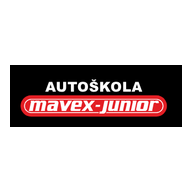
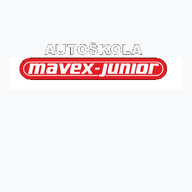
MAVEX – JUNIOR 3D dizajn

diff --git a/index.html b/index.html
@@ -3,46 +3,92 @@
 <head>
 <meta charset="utf-8">
 <meta name="viewport" content="width=device-width,initial-scale=1,viewport-fit=cover">
-<meta name="theme-color" content="#214f7d">
+<meta name="theme-color" content="#b8000c">
 <meta name="mobile-web-app-capable" content="yes">
 <meta name="apple-mobile-web-app-capable" content="yes">
-<meta name="apple-mobile-web-app-title" content="MAVEX JUNIOR">
+<meta name="apple-mobile-web-app-title" content="MAVEX – JUNIOR">
 <link rel="manifest" href="manifest.json">
 <link rel="icon" href="icon-192.png" type="image/png">
 <title>MAVEX – JUNIOR</title>
 <style>
+:root{--red:#e5232b;--red2:#b9000a;--dark:#11151b;--blue:#214f7d;--ink:#14171b}
 *{box-sizing:border-box}
-html,body{margin:0;min-height:100%;font-family:Arial,sans-serif;background:#f5f7fa;color:#111}
-main{min-height:100vh;display:flex;align-items:center;justify-content:center;padding:24px}
-.card{width:min(760px,100%);background:#fff;border-radius:24px;padding:42px 38px 34px;box-shadow:0 8px 30px rgba(0,0,0,.12);text-align:center}
-.logo{width:min(620px,92%);height:auto;display:block;margin:0 auto 38px}
-h1{margin:0 0 12px;color:#214f7d;font-size:clamp(25px,5vw,40px);font-weight:800}
-p{margin:0;color:#222;font-size:clamp(16px,3vw,22px);line-height:1.45}
-.btn{display:flex;align-items:center;justify-content:center;gap:14px;width:min(430px,100%);margin:30px auto 0;padding:18px 24px;border-radius:15px;background:#103b78;color:#fff;text-decoration:none;font-size:clamp(18px,3vw,24px);font-weight:800;box-shadow:0 5px 14px rgba(16,59,120,.22)}
-.cal{font-size:1.25em;line-height:1}
-.small{margin-top:24px;color:#666;font-size:14px}
-@media(max-width:500px){
-main{padding:12px}
-.card{padding:28px 18px 24px;border-radius:18px}
-.logo{margin-bottom:28px}
-.btn{padding:16px 18px}
+html,body{margin:0;min-height:100%;font-family:Arial,Helvetica,sans-serif;background:#eef1f5;color:var(--ink)}
+body{overflow-x:hidden}
+.page{min-height:100vh;display:flex;align-items:center;justify-content:center;padding:20px}
+.shell{position:relative;width:min(1120px,100%);min-height:720px;overflow:hidden;border-radius:32px;background:linear-gradient(145deg,#fff 0%,#fff 58%,#f0f3f6 100%);box-shadow:0 30px 70px rgba(0,0,0,.18),inset 0 1px 0 #fff}
+.shell:before{content:"";position:absolute;width:560px;height:560px;left:-260px;top:-280px;border-radius:50%;background:radial-gradient(circle at 70% 70%,#ff3540 0 3%,transparent 4%),linear-gradient(135deg,#15191e 0 38%,#e5232b 39% 44%,transparent 45%);transform:rotate(-10deg);opacity:.98}
+.shell:after{content:"";position:absolute;width:600px;height:600px;right:-310px;bottom:-330px;border-radius:50%;background:linear-gradient(315deg,#15191e 0 37%,#e5232b 38% 43%,transparent 44%);transform:rotate(-8deg)}
+.content{position:relative;z-index:2;display:grid;grid-template-columns:1.15fr .85fr;gap:30px;min-height:720px;padding:58px 64px}
+.left{display:flex;flex-direction:column;justify-content:center}
+.kicker{font-size:14px;letter-spacing:3px;font-weight:800;color:#666;text-transform:uppercase;margin-bottom:16px}
+.logo3d{display:inline-flex;align-self:flex-start;align-items:center;justify-content:center;padding:12px 22px;border-radius:28px;background:linear-gradient(180deg,#ff3b42,#c9000a);border:2px solid #ff5b60;box-shadow:0 12px 0 #7f0007,0 20px 28px rgba(185,0,10,.25),inset 0 2px 3px rgba(255,255,255,.7);transform:perspective(600px) rotateX(5deg);margin-bottom:30px}
+.logoText{font-style:italic;font-weight:900;font-size:clamp(30px,5vw,58px);letter-spacing:-3px;color:#fff;text-shadow:0 3px 0 #8e0006,0 5px 7px rgba(0,0,0,.2)}
+.auto{font-size:clamp(22px,4vw,42px);font-weight:900;letter-spacing:2px;color:#0c0e11;margin-bottom:4px;text-shadow:0 3px 0 #ddd}
+h1{margin:0;font-size:clamp(48px,8vw,92px);line-height:.92;letter-spacing:-4px;font-weight:950;color:#111}
+h1 span{color:var(--red);text-shadow:0 5px 0 #8d0007,0 10px 18px rgba(185,0,10,.18)}
+.lead{margin:22px 0 0;max-width:620px;font-size:clamp(18px,2.2vw,25px);line-height:1.4;color:#4a4e54}
+.cta{display:inline-flex;align-items:center;justify-content:center;gap:15px;width:min(430px,100%);margin-top:32px;padding:20px 26px;border:0;border-radius:18px;background:linear-gradient(180deg,#ff3b42,#c9000a);color:#fff;text-decoration:none;font-size:clamp(19px,2.4vw,26px);font-weight:900;box-shadow:0 9px 0 #850008,0 18px 30px rgba(185,0,10,.28),inset 0 2px 2px rgba(255,255,255,.5);transition:transform .18s,box-shadow .18s}
+.cta:hover{transform:translateY(-3px);box-shadow:0 12px 0 #850008,0 22px 35px rgba(185,0,10,.32)}
+.cta:active{transform:translateY(5px);box-shadow:0 4px 0 #850008,0 8px 15px rgba(185,0,10,.2)}
+.cal{width:34px;height:34px;border:3px solid #fff;border-radius:8px;position:relative}
+.cal:before{content:"";position:absolute;left:5px;right:5px;top:9px;border-top:3px solid #fff;box-shadow:0 7px 0 #fff}
+.cal:after{content:"";position:absolute;left:5px;right:5px;top:-6px;height:8px;border-left:3px solid #fff;border-right:3px solid #fff}
+.features{display:grid;grid-template-columns:repeat(4,1fr);gap:12px;margin-top:35px;max-width:680px}
+.feature{padding:15px 10px;border-radius:16px;background:rgba(255,255,255,.78);border:1px solid #e4e6e9;box-shadow:0 8px 20px rgba(0,0,0,.07);text-align:center}
+.fi{font-size:25px;color:var(--red);margin-bottom:7px}
+.feature b{font-size:12px;line-height:1.2;display:block}
+.right{display:flex;align-items:center;justify-content:center;position:relative}
+.gauge{width:min(420px,90%);aspect-ratio:1;border-radius:50%;background:radial-gradient(circle,#fff 0 48%,#f2f3f5 49% 62%,#171a1e 63% 66%,#dfe3e7 67%);box-shadow:20px 25px 45px rgba(0,0,0,.18),inset 0 0 0 12px #fff;position:relative;transform:perspective(800px) rotateY(-12deg) rotateX(7deg)}
+.gauge:before{content:"";position:absolute;inset:10%;border-radius:50%;background:repeating-conic-gradient(from -135deg,#222 0deg 1deg,transparent 1deg 7deg);mask:radial-gradient(circle,transparent 0 65%,#000 66%);opacity:.8}
+.gauge:after{content:"";position:absolute;left:50%;top:50%;width:6px;height:39%;background:linear-gradient(#e5232b,#8d0007);transform-origin:50% 100%;transform:translate(-50%,-100%) rotate(38deg);border-radius:8px;box-shadow:0 2px 5px #777}
+.gauge-center{position:absolute;left:50%;top:50%;width:36px;height:36px;border-radius:50%;background:var(--red);transform:translate(-50%,-50%);box-shadow:0 3px 7px rgba(0,0,0,.3);z-index:2}
+.gauge-label{position:absolute;inset:0;display:flex;align-items:center;justify-content:center;padding-top:90px;flex-direction:column}
+.gauge-label strong{font-size:54px;letter-spacing:-3px}
+.gauge-label small{font-weight:800;color:#777;letter-spacing:3px}
+.road{position:absolute;bottom:35px;left:10%;width:78%;height:110px;transform:skewY(-10deg);background:linear-gradient(90deg,#d7dbe0,#fff);clip-path:polygon(15% 100%,80% 100%,100% 0,45% 0)}
+.road:after{content:"";position:absolute;left:48%;top:0;width:7px;height:100%;background:repeating-linear-gradient(#fff 0 18px,transparent 18px 34px);opacity:.8}
+.car{position:absolute;bottom:72px;left:23%;font-size:62px;filter:drop-shadow(0 10px 8px rgba(0,0,0,.2));transform:scaleX(-1)}
+.badge{position:absolute;right:3%;top:10%;padding:10px 15px;border-radius:14px;background:#111;color:#fff;font-size:12px;font-weight:900;letter-spacing:1px;box-shadow:0 7px 0 #e5232b,0 12px 20px rgba(0,0,0,.15)}
+@media(max-width:850px){
+ .shell{min-height:auto;border-radius:24px}.content{grid-template-columns:1fr;min-height:auto;padding:42px 28px 34px}.right{order:-1;height:250px}.gauge{width:235px}.gauge-label strong{font-size:32px}.gauge-label{padding-top:45px}.road{display:none}.car{font-size:38px;bottom:12px;left:18%}.badge{top:5%;right:4%}
+ .features{grid-template-columns:repeat(2,1fr)}
+}
+@media(max-width:480px){
+ .page{padding:8px}.content{padding:28px 18px 26px}.right{height:220px}.logo3d{padding:9px 15px}.logoText{font-size:31px}.auto{font-size:18px}h1{font-size:48px;letter-spacing:-2px}.lead{font-size:17px}.cta{margin-top:24px;padding:17px 18px}.features{gap:8px;margin-top:24px}.feature{padding:12px 6px}.feature b{font-size:10px}
 }
 </style>
 </head>
 <body>
-<main>
-<section class="card">
-<img class="logo" src="logo.png" alt="AUTOŠKOLA mavex-junior">
-<h1>MAVEX – JUNIOR</h1>
-<p>Rezervačný kalendár autoškoly MAVEX – JUNIOR.</p>
-<a class="btn" href="https://script.google.com/macros/s/AKfycbzIWitrwJs8-ygDerMXPEgmlDk0k4OuRjoG1-pKcpIEB9ou5_uueng8KRyunKplJfBvMA/exec"><span class="cal">▣</span><span>OTVORIŤ MAVEX</span></a>
-<div class="small">MAVEX JUNIOR – vstup do rezervačného kalendára.</div>
+<div class="page">
+<section class="shell">
+<div class="content">
+<div class="left">
+<div class="kicker">Digitálny rezervačný systém</div>
+<div class="auto">AUTOŠKOLA</div>
+<div class="logo3d"><img src="logo.png" alt="AUTOŠKOLA mavex-junior" style="width:min(100%,560px);height:auto;display:block"></div>
+<h1>MAVEX <span>– JUNIOR</span></h1>
+<p class="lead">Rezervačný kalendár autoškoly. Jednoducho, rýchlo a prehľadne.</p>
+<a class="cta" href="https://script.google.com/macros/s/AKfycbzIWitrwJs8-ygDerMXPEgmlDk0k4OuRjoG1-pKcpIEB9ou5_uueng8KRyunKplJfBvMA/exec">
+<span class="cal"></span><span>OTVORIŤ MAVEX – JUNIOR – JUNIOR</span>
+</a>
+<div class="features">
+<div class="feature"><div class="fi">▦</div><b>ONLINE<br>REZERVÁCIE</b></div>
+<div class="feature"><div class="fi">◷</div><b>RÝCHLA<br>REZERVÁCIA</b></div>
+<div class="feature"><div class="fi">♧</div><b>PRIPOMIENKY<br>JÁZD</b></div>
+<div class="feature"><div class="fi">◆</div><b>BEZPEČNÉ<br>A SPOĽAHLIVÉ</b></div>
+</div>
+</div>
+<div class="right">
+<div class="badge">MAVEX – JUNIOR • 2026</div>
+<div class="gauge"><div class="gauge-center"></div><div class="gauge-label"><strong>JAZDA</strong><small>PRIPRAVENÁ</small></div></div>
+<div class="road"></div><div class="car">🚗</div>
+</div>
+</div>
 </section>
-</main>
+</div>
 <script>
-if ("serviceWorker" in navigator) {
-  navigator.serviceWorker.register("./sw.js").catch(console.error);
-}
+if("serviceWorker" in navigator){navigator.serviceWorker.register("./sw.js").catch(()=>{});}
 </script>
 </body>
 </html>

diff --git a/sw.js b/sw.js
@@ -1,13 +1,5 @@
-const CACHE="mavex-junior-v3";
+const CACHE="mavex-junior-3d-v2";
 const ASSETS=["./","./index.html","./manifest.json","./logo.png","./icon-192.png","./icon-512.png"];
-self.addEventListener("install",event=>{
-  event.waitUntil(caches.open(CACHE).then(cache=>cache.addAll(ASSETS)));
-  self.skipWaiting();
-});
-self.addEventListener("activate",event=>event.waitUntil(self.clients.claim()));
-self.addEventListener("fetch",event=>{
-  const url=new URL(event.request.url);
-  if(url.origin===location.origin){
-    event.respondWith(caches.match(event.request).then(cached=>cached||fetch(event.request)));
-  }
-});
+self.addEventListener("install",e=>{e.waitUntil(caches.open(CACHE).then(c=>c.addAll(ASSETS)));self.skipWaiting()});
+self.addEventListener("activate",e=>e.waitUntil(self.clients.claim()));
+self.addEventListener("fetch",e=>{if(new URL(e.request.url).origin===location.origin)e.respondWith(caches.match(e.request).then(r=>r||fetch(e.request)))});
